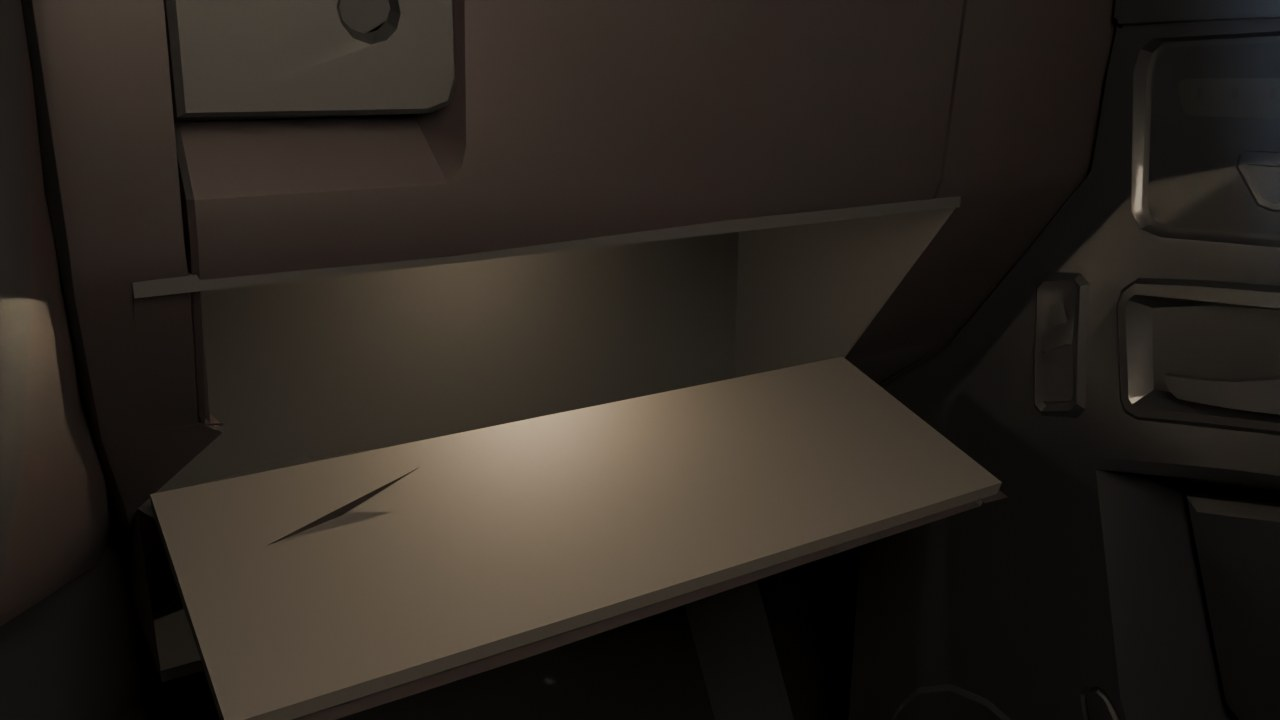
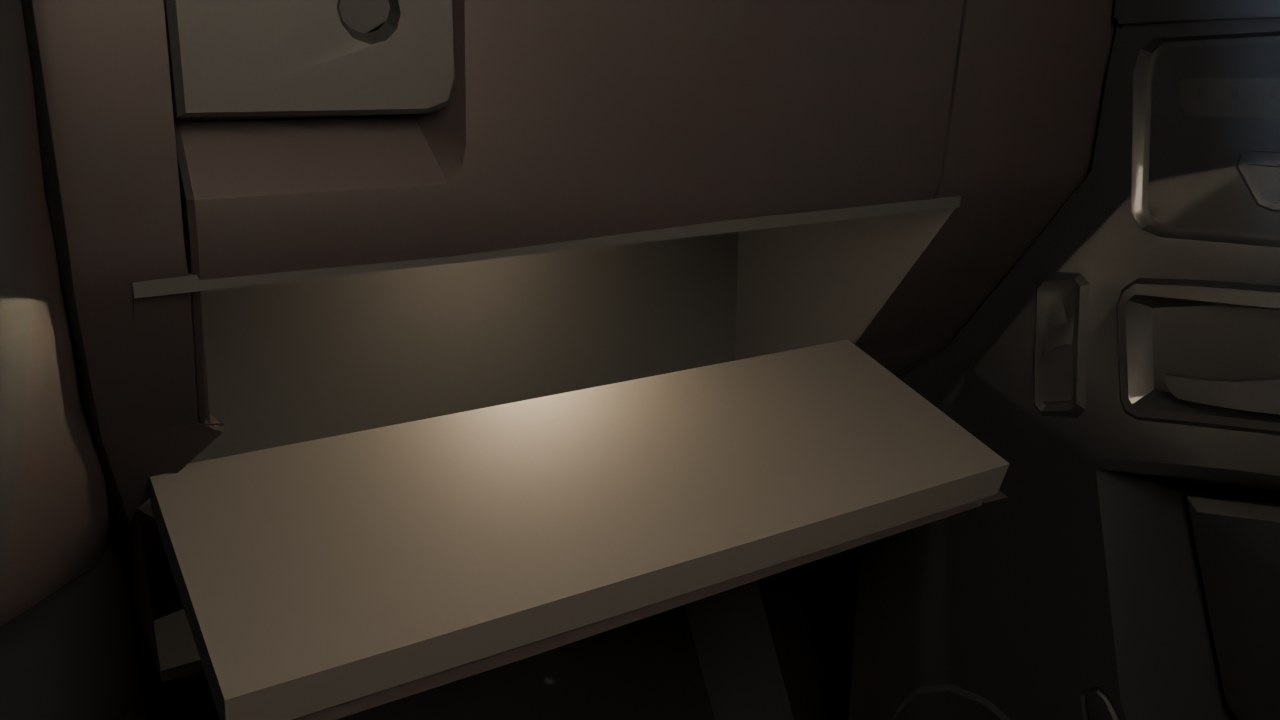
fix(escenas): el forro de la guantera tapa la puerta entera
La piel de la puerta se abomba hasta 2.1 cm fuera de su plano medio y el forro iba de 2 a 10 mm,
así que un vértice de la puerta asomaba 1.08 cm por encima: la astilla oscura a la izquierda de
guantera2-borde. El forro ahora llega 2 mm por encima del vértice más alto (2.1 cm de grueso) y la
basura se apoya en su cara. probe_guantera.py suma la revisión "asoma": 0.0108 FAIL antes,
-0.002 PASS después. Stills guantera2-borde y guantera2-c re-renderizados.

Claude-Session: https://claude.ai/code/session_01JDrAzD8GXwYsvTsgEdhWw7

diff --git a/blender/probe_guantera.py b/blender/probe_guantera.py
@@ -12,6 +12,9 @@ leaning skin (y lo.y), 9 cm in front of the dash at the hinge (y hi.y): a second
 cabin at the walls and the centre, z between the hole's bottom and 1 cm under the hinge (the open door hangs above that); the
 box's first hit (material u_hueco; the open door hangs in front on purpose) must lie no more than 1 cm in front of hi.y.
 
+Fourth check ("asoma"): no vertex of the door copies may stand above the liner's top face inside its footprint (the liner sat 2-10
+mm off the skin's mid plane, the skin bulges, and a door edge showed through as a dark sliver on the left in guantera2-borde).
+
   /mnt/e/Blender/blender.exe -b --factory-startup --python-exit-code 1 --python "$(wslpath -w blender/probe_guantera.py)" -- \
     "$(wslpath -w /mnt/e/Cursor\ Projects/MTO/blender/escena.py)" "$(wslpath -w tmp/utileria)" 1 ninguno 1280x720 "$(wslpath -w blender/utileria.py)"
 """
@@ -48,4 +51,17 @@ for x in (hlo.x + 0.002, (hlo.x + hhi.x) / 2, hhi.x - 0.002):
                 break
             o = loc + Vector((0, 0.0005, 0))
 print("PROBE sale", round(sale, 4), "tope 0.01", "FAIL" if sale > 0.01 else "PASS")
-sys.exit(1 if fondo > TOPE or falta > EPS or sale > 0.01 else 0)
+# Fourth check: no door vertex may stand above the liner's top face inside its footprint. The skin is not flat, so with the liner
+# 2-10 mm off the skin's mid plane a door edge poked through on the left: a thin dark sliver in guantera2-borde (05:35 handoff).
+liner = next(o for o in c["objs"] if o.type == "MESH" and any(ms.material and ms.material.name == "u_guantera_int" for ms in o.material_slots))
+inv, sy = liner.matrix_world.inverted(), liner.scale.y
+asoma = -1.0
+for o in c["objs"]:
+    if o.type != "MESH" or any(ms.material and ms.material.name.startswith("u_") for ms in o.material_slots):
+        continue  # door copies only (the truck's own materials)
+    for v in o.data.vertices:
+        l = inv @ (o.matrix_world @ v.co)
+        if abs(l.x) <= 1 and abs(l.z) <= 1:
+            asoma = max(asoma, (l.y - 1) * sy)
+print("PROBE asoma", round(asoma, 4), "tope 0", "FAIL" if asoma > 0 else "PASS")
+sys.exit(1 if fondo > TOPE or falta > EPS or sale > 0.01 or asoma > 0 else 0)

diff --git a/blender/utileria.py b/blender/utileria.py
@@ -1271,8 +1271,12 @@ def cortar_guantera():
     lean = math.atan2(hi.y - lo.y, h)
     nrm = Vector((0, math.cos(lean), math.sin(lean)))  # the skin's inside
     medio = Vector(((lo.x + hi.x) / 2, (lo.y + hi.y) / 2, (lo.z + hi.z) / 2))
-    liner = caja((w - 0.01, 0.008, math.hypot(hi.y - lo.y, h) - 0.01), medio + nrm * 0.006, mat("u_guantera_int", (0.03, 0.028, 0.026), 0.8),
-                 rot=(lean, 0, 0), parent=False)
+    # the skin bulges up to ~2 cm off that plane, so a fixed 2-10 mm slab let a door edge poke through (a dark sliver on the left,
+    # probe_guantera.py "asoma"): the liner runs from 2 mm off the plane to 2 mm above the door's highest vertex
+    tope = max(0.010, max((v - medio).dot(nrm) for v in todos) + 0.002)
+    print("CORTE liner tope", round(tope, 4))
+    liner = caja((w - 0.01, tope - 0.002, math.hypot(hi.y - lo.y, h) - 0.01), medio + nrm * (0.002 + tope) / 2,
+                 mat("u_guantera_int", (0.03, 0.028, 0.026), 0.8), rot=(lean, 0, 0), parent=False)
     bpy.context.view_layer.update()
     liner.matrix_world = giro @ liner.matrix_world
     # the dark inner box, open towards the cabin, its rim on the cut edges. Sized from the hole, not the door: the door is the
@@ -1295,7 +1299,7 @@ def cortar_guantera():
     luz("POINT", (cx, yb + 0.1, hi.z - 0.03), 2.0, (1.0, 0.8, 0.55), parent=False)
     luz("AREA", (cx - 0.1, yb - 0.45, hi.z + 0.2), 6.0, (1.0, 0.85, 0.65), mira=(cx, yb - 0.1, lo.z), size=0.2, parent=False)
     n = giro.to_3x3() @ nrm  # the door's inside, now facing up
-    centro = giro @ (medio + nrm * 0.010)
+    centro = giro @ (medio + nrm * tope)
     print("CORTE centro", centro)
     CORTE.update(objs=puertas + list(GRUPO), centro=centro, n=n, lo=lo, hi=hi, hueco_lo=hlo, hueco_hi=hhi,
                  caja_lo=Vector((cx - bw / 2 - t / 2, yb, cz - bh / 2 - t / 2)), caja_hi=Vector((cx + bw / 2 + t / 2, yb + prof, cz + bh / 2 + t / 2)))

diff --git a/docs/design/escenas/handoff-ronda2-resto.md b/docs/design/escenas/handoff-ronda2-resto.md
@@ -14,9 +14,9 @@ screen faces into `tmp/utileria/`.
   not said this set is final, and may still swap pieces from `calcas3-arte.jpg` / `calcas3-arte-2.jpg`. Once it is final, record it in
   `DESIGN.md` › Components. The IG/YT/TT glyph slots stay grey until the owner downloads the official files. The build packs the art
   in one atlas (references.md row, kiln-utility-box).
-- **Glovebox liner sliver.** In `guantera2-borde`, a thin dark sliver on the left, where a door-mesh edge pokes through the liner.
-  Probable fix: offset the liner a few mm more along `nrm`, or trim the door copy's side-wall faces. Check it with `probe_guantera.py`
-  (all three checks pass now) and a re-render.
+- **Glovebox liner sliver: fixed (05:37, npcdrone).** The skin bulges up to 2.1 cm off its mid plane; the liner sat 2-10 mm off it,
+  so a door vertex stood 1.08 cm above the liner (`probe_guantera.py` check 4 "asoma": 0.0108 FAIL before, -0.002 PASS after). The
+  liner now runs from 2 mm off the plane to 2 mm above the door's highest vertex (2.1 cm thick) and the junk sits on its top.
 - **Live vs clips: the fps question is open.** `lab/vivo` has not been measured on a real GPU. Whether the site runs the scene live
   or ships Cycles clips depends on that number (see "Live port" below).
 
